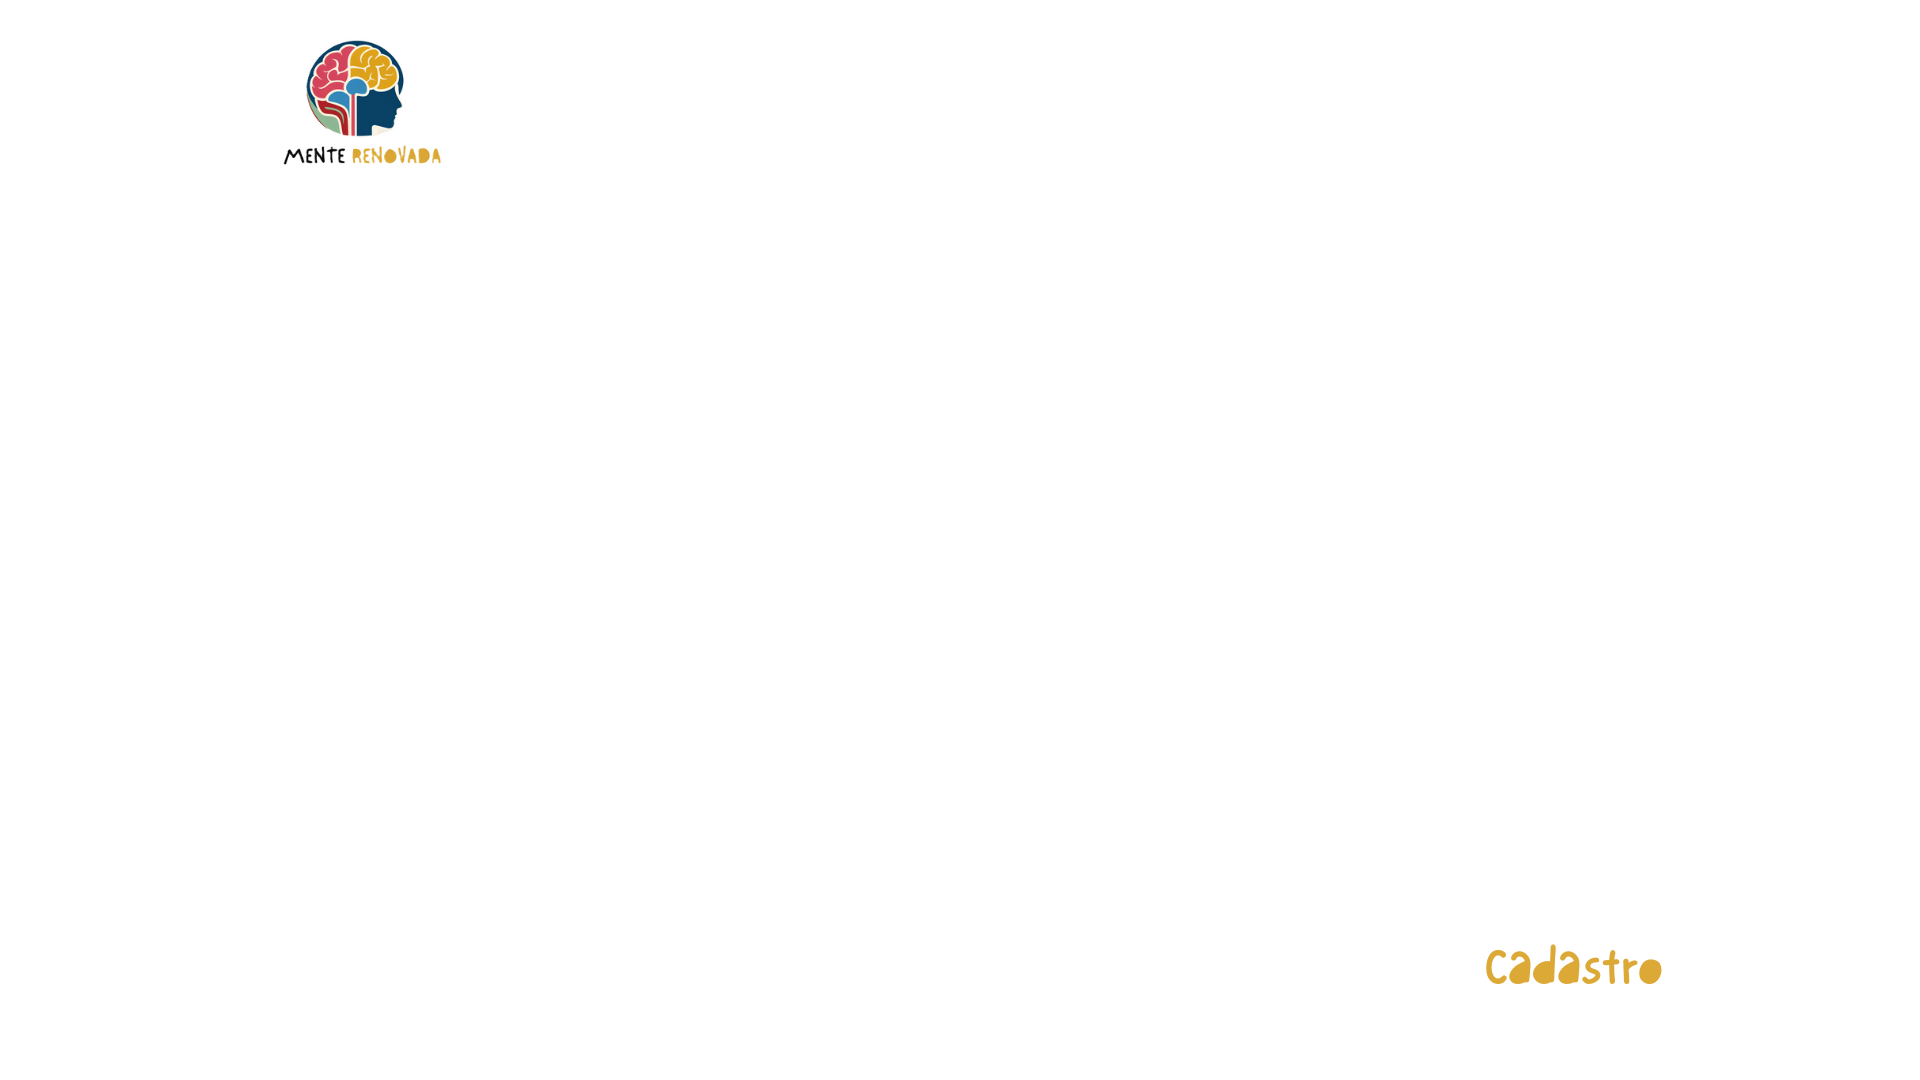
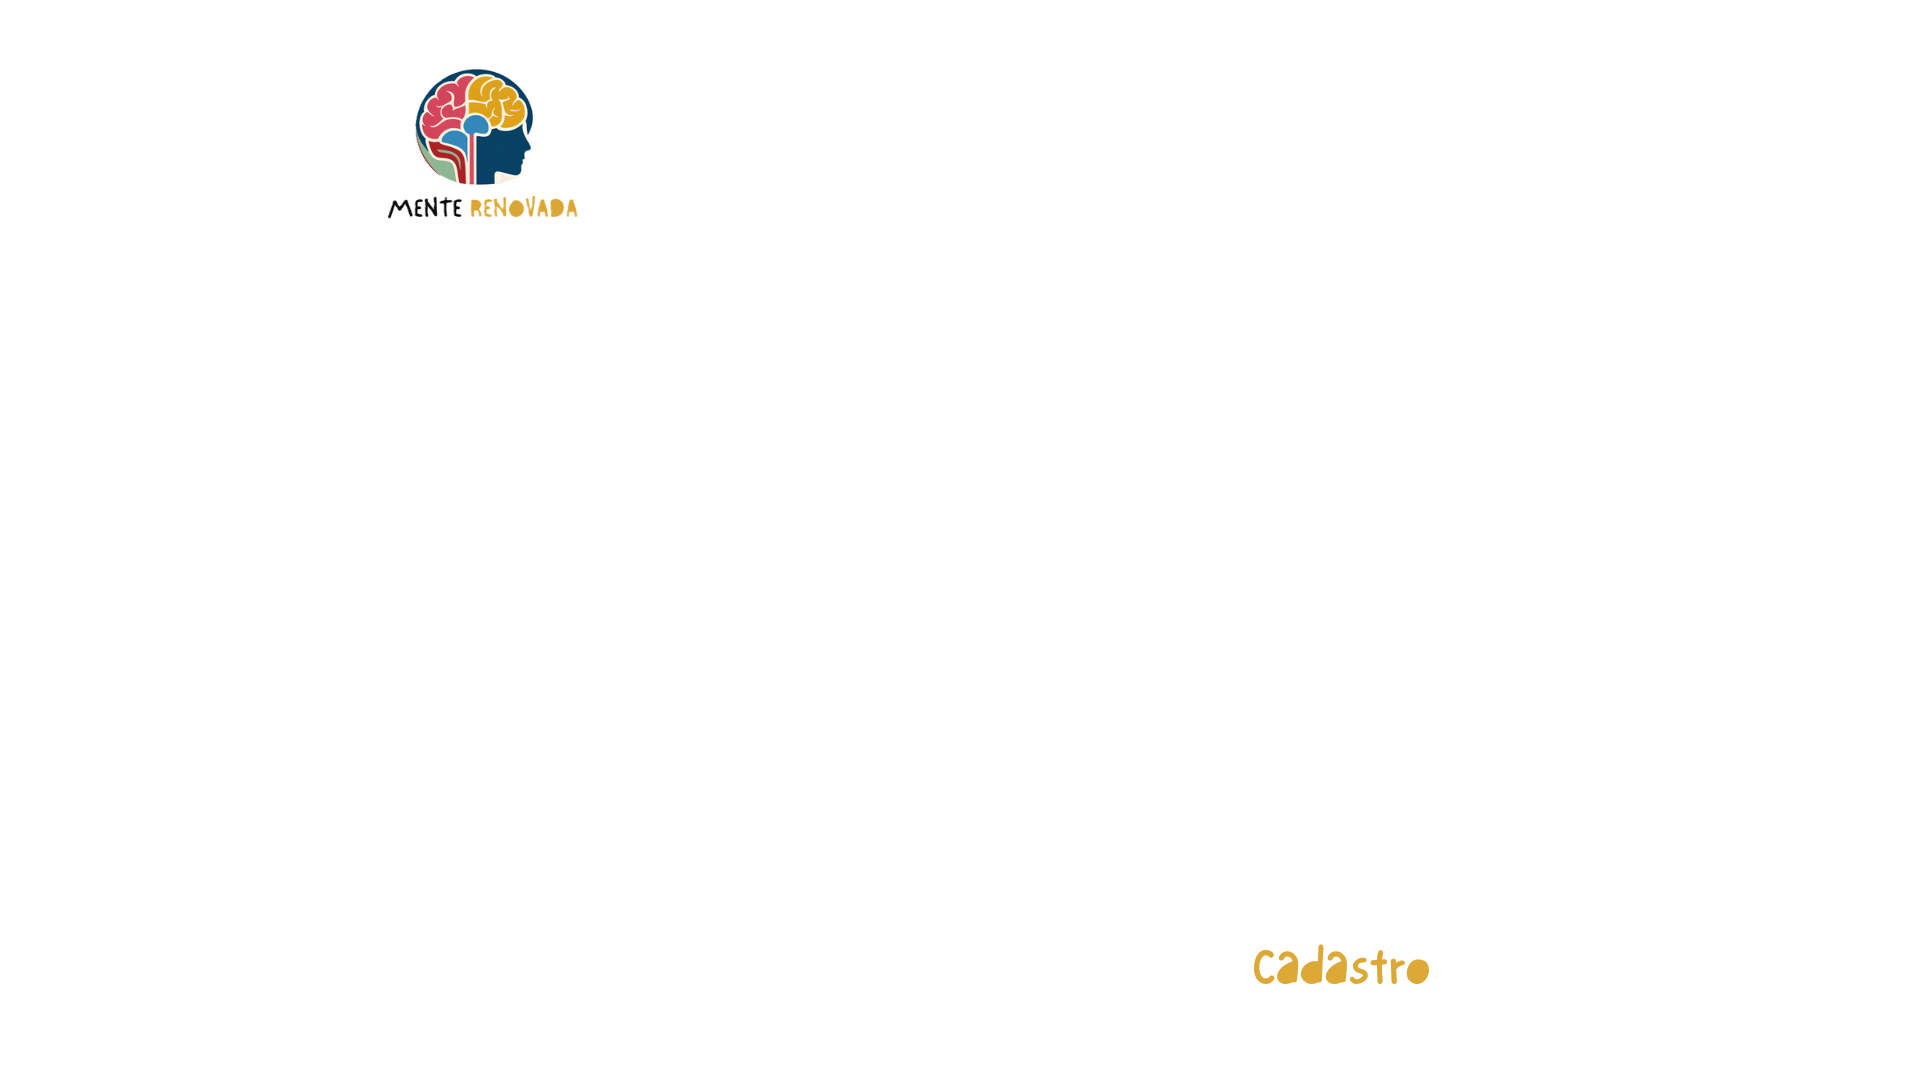
Atualizando as páginas de menu e perfil; novas imagens adicionadas ao projeto.

Changed region(s): [[0.1562, 0.0306, 0.3125, 0.2139], [0.7812, 0.8861, 0.875, 0.9167], [0.6562, 0.8861, 0.75, 0.9167]]

diff --git a/menu_publico.php b/menu_publico.php
@@ -53,28 +53,29 @@ if (isset($_POST['email']) || isset($_POST['senha']) || isset($_POST['CRP'])) {
 
 // Se o psicólogo está logado, busca a foto de perfil (mesma lógica de perfil_ps.php)
 if (isset($_SESSION['login_admin'])) {
-    $email = $_SESSION['login_admin'];
+  $email = $_SESSION['login_admin'];
 
-    $stmt = $conn->prepare("
+  $stmt = $conn->prepare("
       SELECT foto_perfil
       FROM psicologo
       WHERE email = :email
       LIMIT 1
     ");
-    $stmt->bindParam(':email', $email);
-    $stmt->execute();
-    $row = $stmt->fetch(PDO::FETCH_ASSOC);
+  $stmt->bindParam(':email', $email);
+  $stmt->execute();
+  $row = $stmt->fetch(PDO::FETCH_ASSOC);
 
-    $diretorio = 'image/';        // mesma pasta usada em perfil_ps.php
-    $arquivo   = $row['foto_perfil'] ?? '';
-    $fotoPerfilPath = (!empty($arquivo) && file_exists($diretorio . $arquivo))
-                      ? $diretorio . $arquivo
-                      : $diretorio . 'default.png';
+  $diretorio = 'image/';        // mesma pasta usada em perfil_ps.php
+  $arquivo   = $row['foto_perfil'] ?? '';
+  $fotoPerfilPath = (!empty($arquivo) && file_exists($diretorio . $arquivo))
+    ? $diretorio . $arquivo
+    : $diretorio . 'default.png';
 }
 
 ?>
 <style>
-  html, body {
+  html,
+  body {
     margin: 0;
     padding: 0;
   }
@@ -102,13 +103,15 @@ if (isset($_SESSION['login_admin'])) {
     display: flex;
     align-items: center;
     justify-content: flex-end;
-    padding-left: 2rem; /* espaçamento à esquerda do ícone */
+    padding-left: 2rem;
+    /* espaçamento à esquerda do ícone */
   }
+
   .navbar-left,
 
-/* Logo animação */
+  /* Logo animação */
   .navbar-left a img {
-    height: 70px;
+    height: 80px;
     object-fit: contain;
     transition: transform 0.3s ease-in-out, filter 0.3s ease-in-out;
   }
@@ -119,17 +122,17 @@ if (isset($_SESSION['login_admin'])) {
   }
 
   /* Animação da imagem de Perfil */
-.perfil-img {
-  width: 40px;
-  height: 40px;
-  border-radius: 50%;
-  transition: transform 0.3s ease, box-shadow 0.3s ease;
-}
+  .perfil-img {
+    width: 40px;
+    height: 40px;
+    border-radius: 50%;
+    transition: transform 0.3s ease, box-shadow 0.3s ease;
+  }
 
-.perfil-img:hover {
-  transform: scale(1.15);
-  box-shadow: 0 0 10px rgba(219, 166, 50, 0.5);
-}
+  .perfil-img:hover {
+    transform: scale(1.15);
+    box-shadow: 0 0 10px rgba(219, 166, 50, 0.5);
+  }
 
 
   .navbar-center {
@@ -162,27 +165,54 @@ if (isset($_SESSION['login_admin'])) {
     gap: 1rem;
   }
 
+  /* Animação do botão de login */
   .login-text {
     font-size: 15px;
-    background-color: #DBA632;
-    color: white;
+    background-color: white;
+    color: #DBA632;
     padding: 0.6rem 1.2rem;
     border-radius: 160px;
+    border: 2px solid #DBA632;
     display: flex;
     align-items: center;
     gap: 0.4rem;
-    transition: color 0.3s ease-in-out, transform 0.3s ease-in-out;
+    transition: all 0.3s ease-in-out;
+    font-weight: bold;
   }
 
   .login-text:hover {
-    color: #b7861e;
+    background-color: #DBA632;
+    color: white;
     transform: scale(1.05);
+    box-shadow: 0 0 10px rgba(219, 166, 50, 0.5);
+  }
+
+  /* Animação do botão registre-se */
+  .registrar-text {
+    font-size: 15px;
+    background-color:  #DBA632;
+    color: white;
+    padding: 0.6rem 1.2rem;
+    border-radius: 160px;
+    border: 2px solid #DBA632;
+    display: flex;
+    align-items: center;
+    gap: 0.4rem;
+    transition: all 0.3s ease-in-out;
+    font-weight: bold;
+  }
+
+  .registrar-text:hover {
+    background-color: white;
+    color: #DBA632;
+    transform: scale(1.05);
+    box-shadow: 0 0 10px rgba(219, 166, 50, 0.5);
   }
 
   .navbar-right img {
     border-radius: 50%;
-    width: 40px;
-    height: 40px;
+    width: 50px;
+    height: 50px;
     object-fit: cover;
   }
 
@@ -204,6 +234,60 @@ if (isset($_SESSION['login_admin'])) {
       flex-direction: column;
     }
   }
+
+  /* Centraliza o conteúdo do modal */
+.modal-content {
+  border-radius: 20px;
+  padding: 2rem;
+  backdrop-filter: blur(5px);
+}
+
+/* Imagem da logo */
+.modal-body img {
+  max-height: 80px;
+  margin-bottom: 1rem;
+}
+
+/* Estiliza os campos de input */
+.modal-body .form-control {
+  border-radius: 30px;
+  padding: 0.8rem 1.2rem;
+  font-size: 1rem;
+  background-color: rgba(255, 255, 255, 0.85);
+}
+
+/* Estiliza os ícones */
+.input-group-text {
+  border-radius: 30px 0 0 30px;
+  background-color: #DBA632;
+  color: white;
+  border: none;
+}
+
+/* Botão de entrar */
+.modal-body button.btn {
+  border-radius: 30px;
+  font-weight: bold;
+  padding: 0.6rem 1.5rem;
+  transition: all 0.3s ease;
+}
+
+.modal-body button.btn:hover {
+  opacity: 0.9;
+  transform: scale(1.05);
+}
+
+/* Corrige espaçamento entre campos */
+.modal-body .input-group {
+  margin-bottom: 1.2rem;
+}
+
+/* Link de cadastro */
+.modal-body p a {
+  text-decoration: none;
+  font-weight: bold;
+}
+
 </style>
 
 <nav class="navbar">
@@ -227,19 +311,20 @@ if (isset($_SESSION['login_admin'])) {
   <div class="navbar-right">
     <?php if (!isset($_SESSION['login_admin'])): ?>
       <div class="nav-buttons">
-        <a class="nav-link" data-bs-toggle="modal" data-bs-target="#modalRegistro">Registre-se</a>
+        <a class="nav-link registrar-btn" data-bs-toggle="modal" data-bs-target="#modalRegistro">
+          <span class="registrar-text"><i class="bi bi-person-plus-fill"></i> Registre-se</span>
+        </a>
         <a class="nav-link" data-bs-toggle="modal" data-bs-target="#modalLogin">
           <span class="login-text"><i class="bi bi-person-fill"></i> Entrar</span>
         </a>
       </div>
     <?php else: ?>
       <a href="perfil_ps.php" title="Meu Perfil">
-        <img src="<?php echo htmlspecialchars($fotoPerfilPath); ?>" alt="Foto de Perfil" class = "perfil-img" />
+        <img src="<?php echo htmlspecialchars($fotoPerfilPath); ?>" alt="Foto de Perfil" class="perfil-img" />
       </a>
     <?php endif; ?>
   </div>
 </nav>
-
 
 
 <!-- Modal de Login -->
@@ -305,7 +390,7 @@ if (isset($_SESSION['login_admin'])) {
 <!-- Modal de Registro -->
 <div class="modal fade" id="modalRegistro" tabindex="-1" aria-labelledby="modalRegistroLabel" aria-hidden="true">
   <div class="modal-dialog modal-dialog-centered modal-lg">
-    <div class="modal-content border-0" style="background: url('image/tela_cadastro.png') center/cover no-repeat;">
+    <div class="modal-content border-0" style="background: url('image/Cadastro.png') center/cover no-repeat;">
       <div class="modal-body p-0 d-flex flex-column align-items-center justify-content-center" style="padding: 2rem;">
 
         <!-- Formulário de Registro -->

diff --git a/perfil_ps.php b/perfil_ps.php
@@ -66,7 +66,14 @@ $foto = (!empty($fotoArquivo) && file_exists($caminhoImagem . $fotoArquivo))
                 <h3><?= htmlspecialchars($usuario['nome']) ?></h3>
                 <p>Email: <?= htmlspecialchars($usuario['email']) ?></p>
 
-                <button class="btn btn-primary mt-3" data-bs-toggle="modal" data-bs-target="#modalEditarPerfil">Editar Perfil</button>
+                <button class="btn mt-3" data-bs-toggle="modal" data-bs-target="#modalEditarPerfil" style="
+                        background-color: #DBA632;  
+                        color: white; 
+                        box-shadow: 0 4px 6px rgba(0, 0, 0, 0.1); 
+                        transition: all 0.3s ease;
+                        " onmouseover="this.style.filter='brightness(90%)'"
+                        onmouseout="this.style.filter='brightness(100%)'">Editar Perfil</button>
+
                 <a href="logout.php" class="btn btn-outline-danger mt-3">Sair da Conta</a>
             </div>
         </div>
@@ -101,7 +108,7 @@ $foto = (!empty($fotoArquivo) && file_exists($caminhoImagem . $fotoArquivo))
                         </div>
                     </div>
                     <div class="modal-footer">
-                        <button type="button" class="btn btn-secondary" data-bs-dismiss="modal">Cancelar</button>
+                        <button type="button" class="btn btn-danger" data-bs-dismiss="modal">Cancelar</button>
                         <button type="submit" class="btn" style="
                         background-color: #DBA632;  
                         color: white; 
